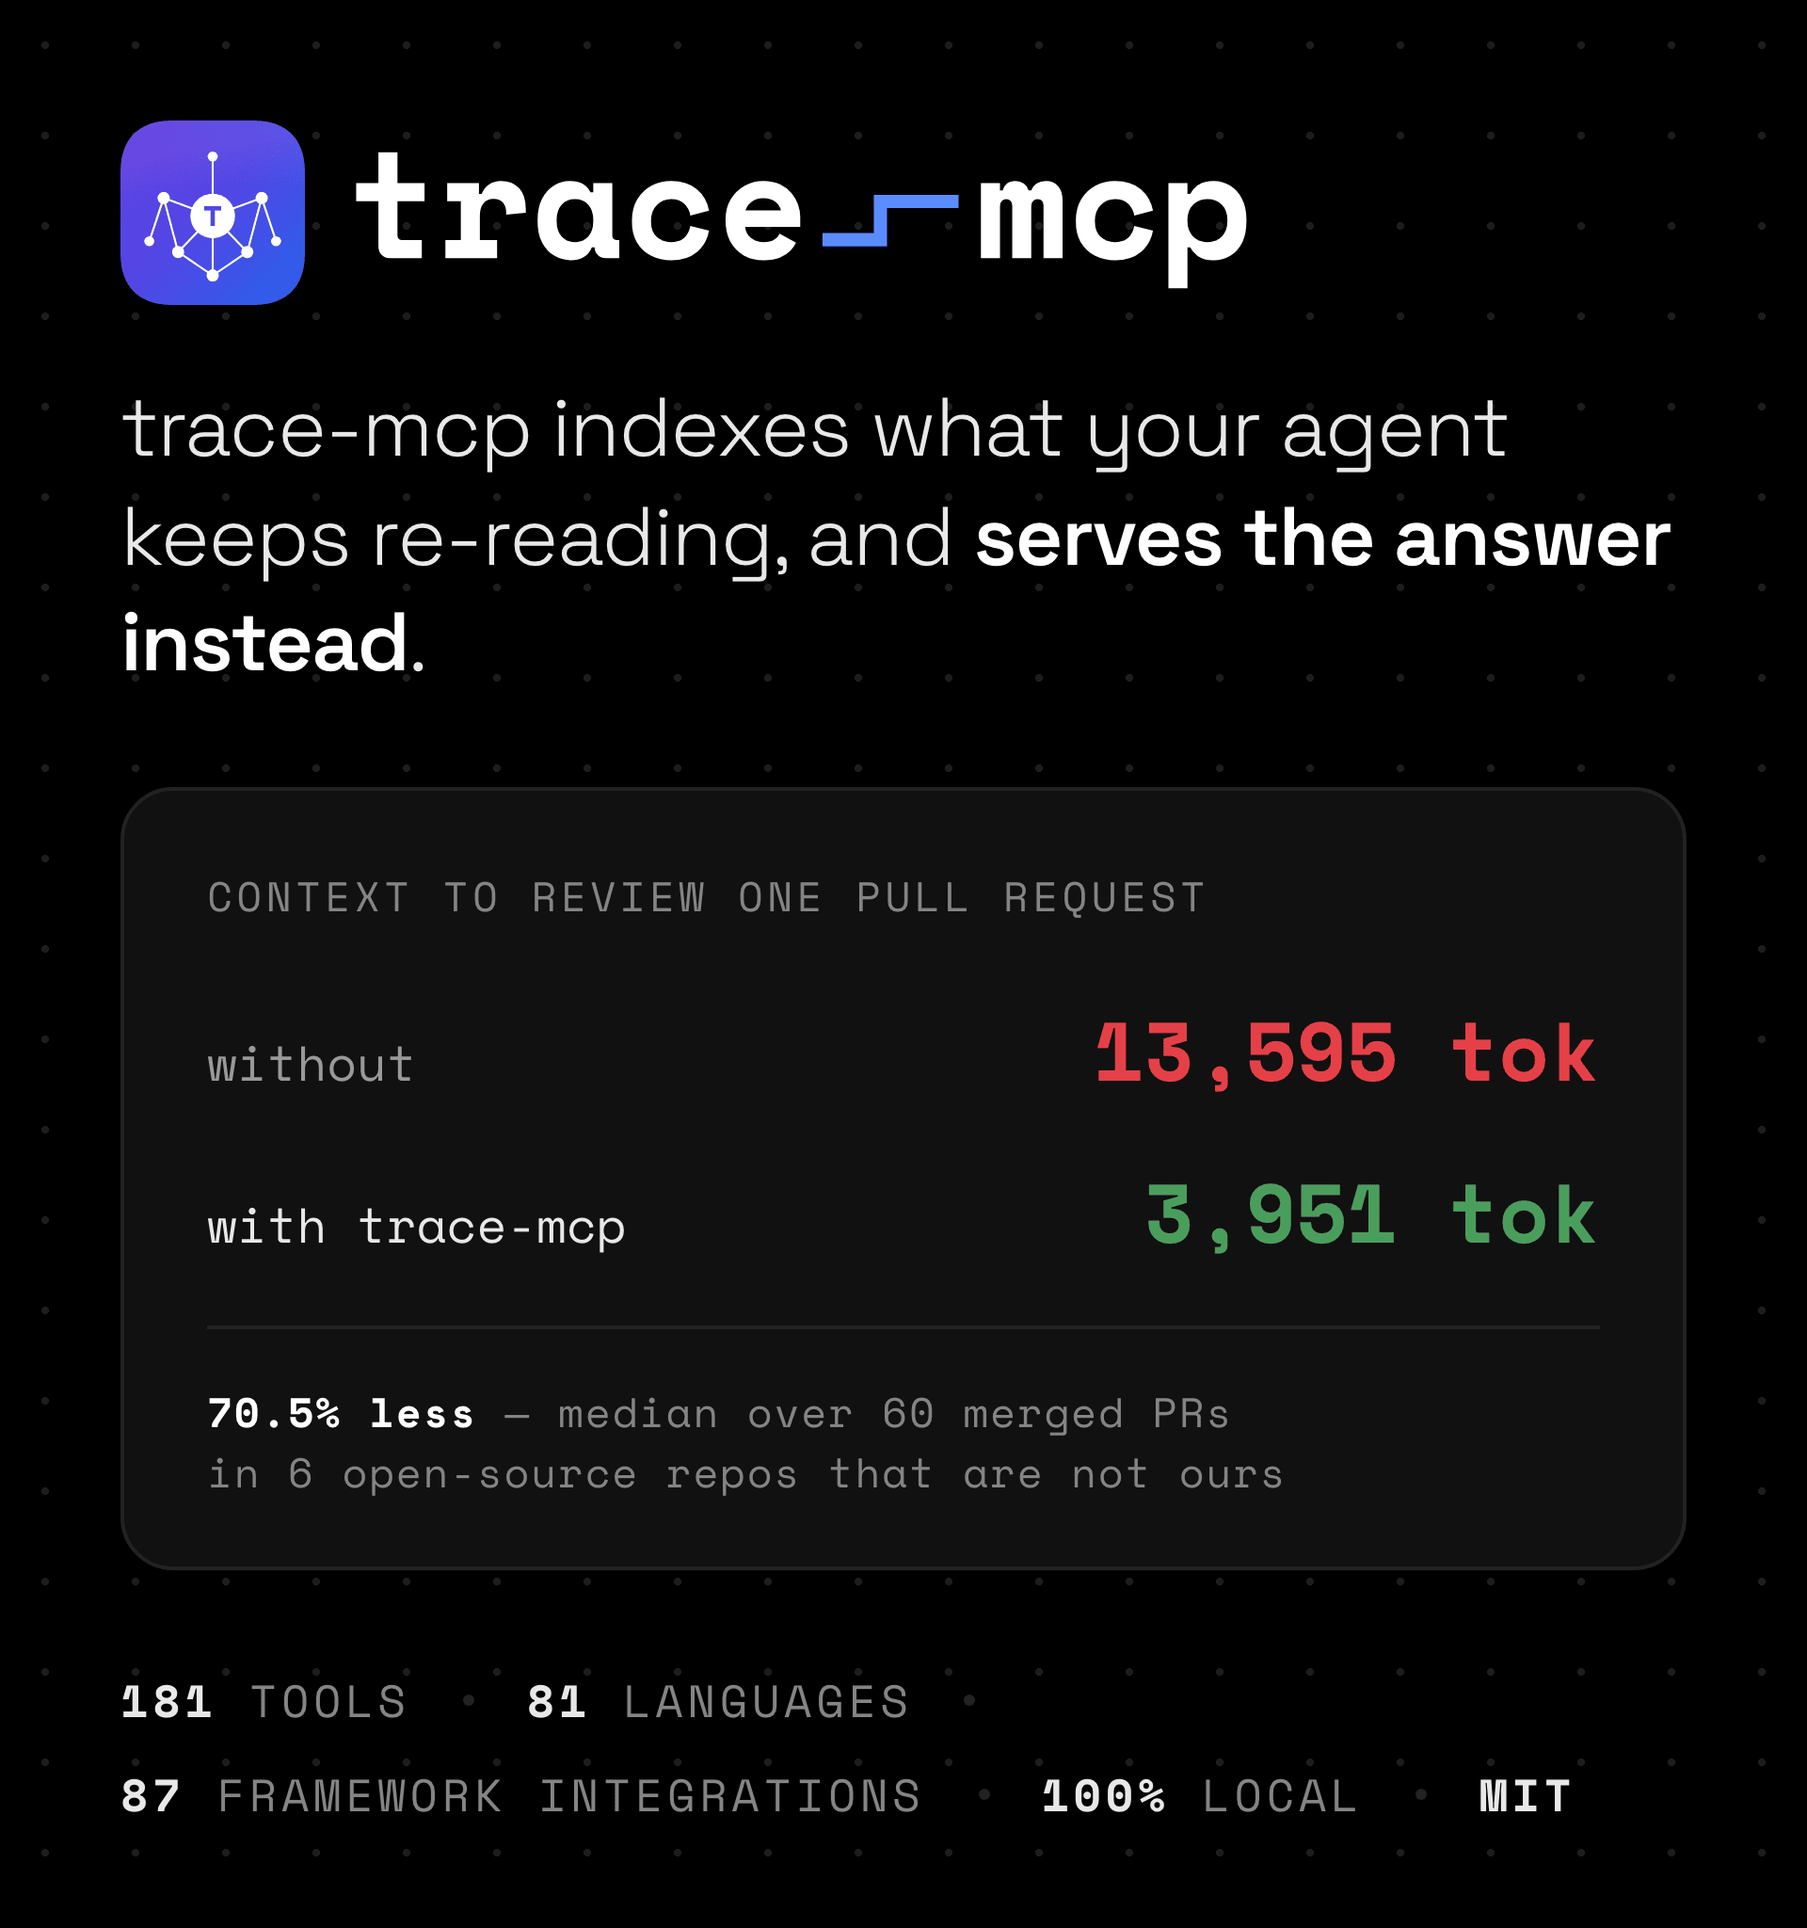
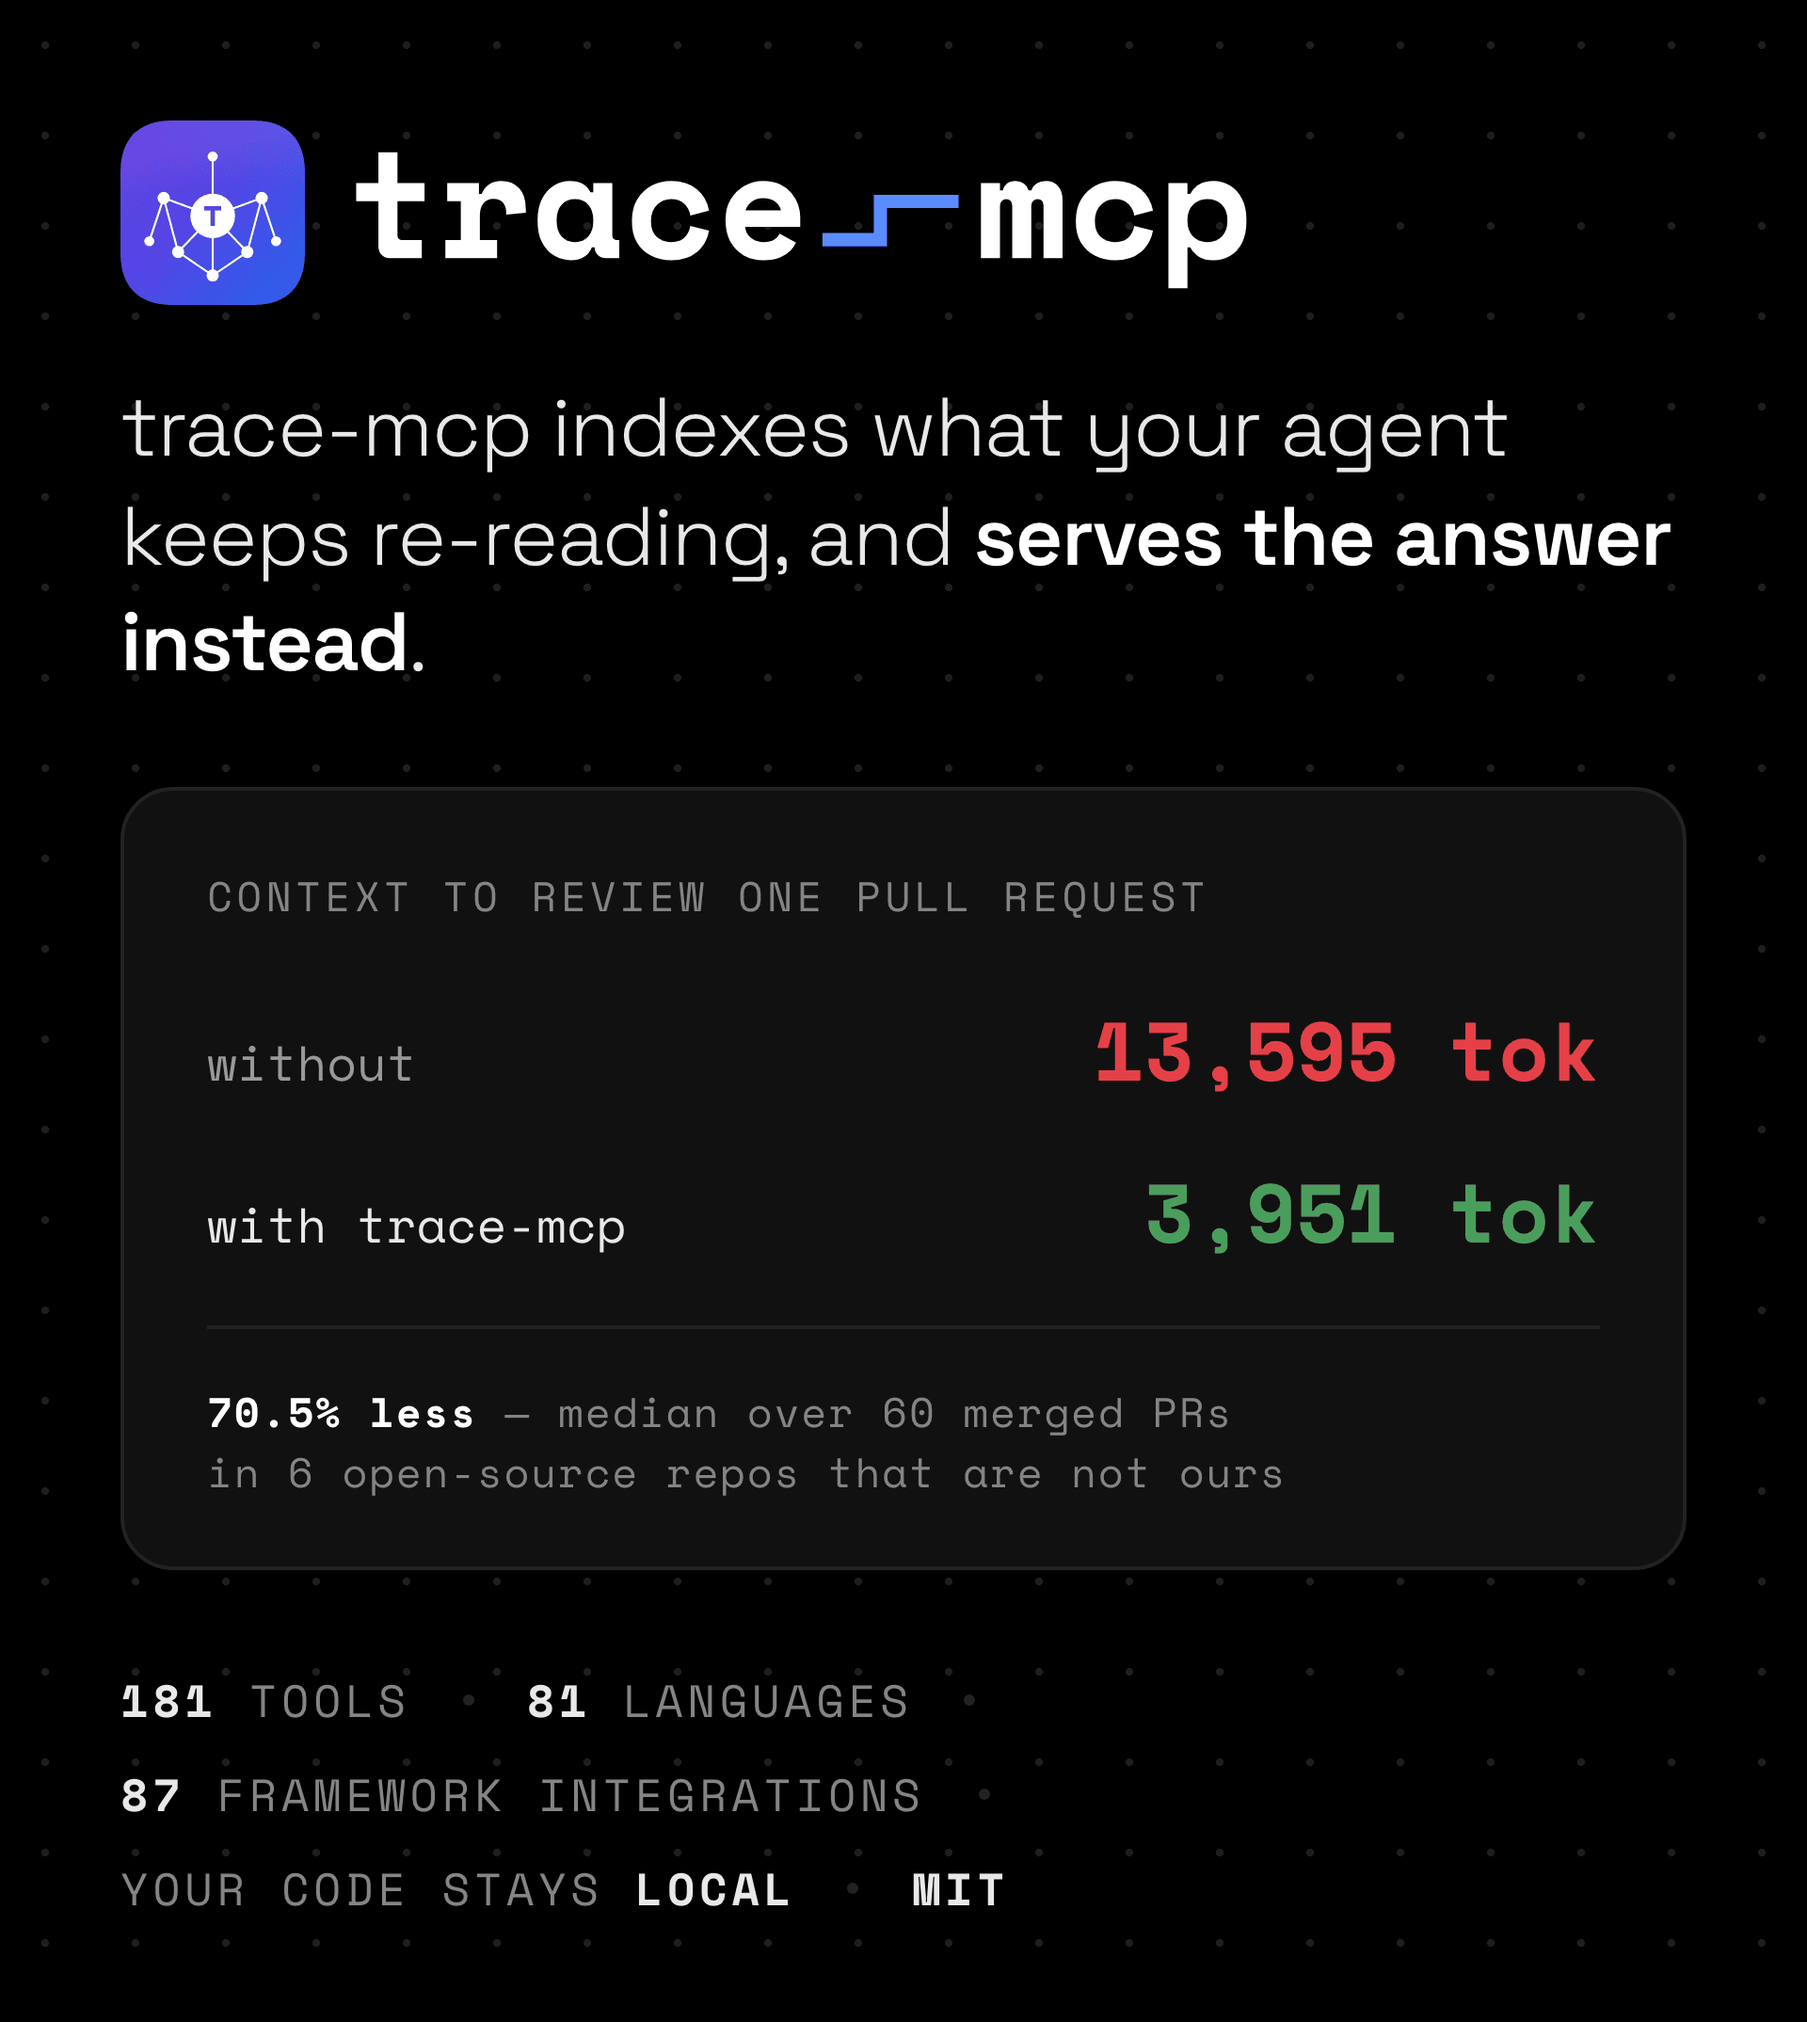
docs: stop claiming 100% local, and never publish the saving without the quality half (TRA-1013)
Two defects on the first screen, both provable from this repo in one command.

1. The README banner chip and its alt text read "100% local" while
   src/telemetry/usage-ping.ts POSTs to google-analytics.com on by default.
   The ping carries no code, no paths and no IP, and docs/privacy.md lists
   every field — none of which rescues an absolute. Now "your code stays
   local"; generator, alt text and the four banner PNGs move together.

2. README published "70.5% fewer input tokens" with no quality figure
   anywhere, though the same 60 PRs were scored blind and the result has
   sat in docs/_data/pr_context_quality.json since this morning (67% vs
   65% understood, 0.80 vs 0.58 false positives per PR). package.json
   quotes the saving in a description too short for a table, so it carries
   the verdict instead — the phrase the live GitHub repo description
   already runs.

Both are gated in tests/docs/readme-claims.test.ts, and the rules are
written down in ops/positioning.md next to the claim they constrain.

docs/index.html (hero) and docs/comparisons.md also quote the saving alone;
those pages belong to the site and competitor mandates and are filed
separately rather than edited here.

Agent: Lead Engineer

diff --git a/tests/docs/readme-claims.test.ts b/tests/docs/readme-claims.test.ts
@@ -623,6 +623,87 @@ describe('docs site numeric claims (TRA-174)', () => {
     expect([...new Set(broken)], 'no matching key in docs/_data/pr_context_bench.json').toEqual([]);
   });
 
+  /**
+   * TRA-1013 / roadmap 2026-09-07: the token saving may not be published alone.
+   * The same 60 PRs were also reviewed by a model and scored blind, and the
+   * quality half is the half that decides whether the cheap context was worth
+   * having. When only the saving travelled, one number was doing the work of a
+   * claim it does not support — the exact defect we documented in a competitor
+   * and then shipped ourselves. So: a surface that quotes the saving quotes the
+   * quality result too, and both come from the generated data.
+   *
+   * README.md is the surface this gates today. docs/index.html (the hero) and
+   * docs/comparisons.md quote the saving without the quality half as well, but
+   * they belong to the site and competitor mandates — filed separately; add
+   * their paths to QUOTES_THE_SAVING once they carry it.
+   */
+  const QUALITY = JSON.parse(
+    readFileSync(join(REPO_ROOT, 'docs/_data/pr_context_quality.json'), 'utf-8'),
+  ) as Record<string, unknown>;
+  const QUOTES_THE_SAVING = ['README.md'];
+
+  /** One-line surfaces cannot carry four numbers, so they carry the verdict
+   *  instead — the same phrase the live GitHub repo description already runs. */
+  const ONE_LINERS_QUOTING_THE_SAVING = ['package.json'];
+
+  it('no surface publishes the token saving without the quality result (TRA-1013)', () => {
+    for (const path of QUOTES_THE_SAVING) {
+      const src = readFileSync(join(REPO_ROOT, path), 'utf-8');
+      for (const [label, needle] of [
+        ['trace understood rate', QUALITY.trace_understood],
+        ['baseline understood rate', QUALITY.baseline_understood],
+        ['trace false positives', QUALITY.trace_false_positives],
+        ['baseline false positives', QUALITY.baseline_false_positives],
+      ] as const) {
+        expect(
+          src.includes(String(needle)),
+          `${path} states the ${BENCH.median_savings_pct}% token saving but not the ${label} ` +
+            `("${needle}") from docs/_data/pr_context_quality.json. Cheaper is not better: the ` +
+            'quality half travels with the saving. Re-run `npx tsx scripts/bench-pr-quality.ts` ' +
+            'and update the block under the benchmark headline.',
+        ).toBe(true);
+      }
+    }
+  });
+
+  it('a one-line surface quoting the saving states the quality verdict (TRA-1013)', () => {
+    for (const path of ONE_LINERS_QUOTING_THE_SAVING) {
+      const src = readFileSync(join(REPO_ROOT, path), 'utf-8');
+      expect(
+        /comprehension at parity/.test(src),
+        `${path} quotes the ${BENCH.median_savings_pct}% saving in a description too short for ` +
+          'the quality table, so it owes the reader the verdict: "comprehension at parity" ' +
+          '(docs/perf/prereg-pr-quality.md, verdict MET). Keep it in step with the GitHub repo ' +
+          'description in ops/distribution.md.',
+      ).toBe(true);
+    }
+  });
+
+  /**
+   * TRA-1013: the banner chip read "100% local" while src/telemetry/usage-ping.ts
+   * POSTs to google-analytics.com by default. The ping carries no code and both
+   * opt-outs are documented — what was false was the absolute. `grep
+   * google-analytics` over our own repo disproved it in one command, on the
+   * surface that is copied verbatim into every auto-indexed listing.
+   */
+  it('no surface we own claims absolute locality while the usage ping ships on (TRA-1013)', () => {
+    const absolute = /(100\s*%[\s-]*local|fully local|entirely local|never leaves your machine)/i;
+    for (const path of [
+      'README.md',
+      'package.json',
+      'server.json',
+      'scripts/gen-readme-banner.mjs',
+    ]) {
+      const hit = readFileSync(join(REPO_ROOT, path), 'utf-8').match(absolute);
+      expect(
+        hit?.[0] ?? null,
+        `${path} claims "${hit?.[0]}". trace-mcp sends one anonymous usage ping by default ` +
+          '(src/telemetry/usage-ping.ts), so an absolute is false. Say what is true instead — ' +
+          'your code and index stay on the machine — and link https://trace-mcp.com/privacy.html.',
+      ).toBe(null);
+    }
+  });
+
   it('llms.txt and tools-reference.md agree on the resource count', () => {
     const llms = readDoc('docs/llms.txt');
     const toolsRef = readDoc('docs/tools-reference.md');

diff --git a/ops/docs-audit.md b/ops/docs-audit.md
@@ -27,6 +27,7 @@ Claims that a test already guards need no re-audit; the guard is the record:
 
 | Date | Scope | Verified against | Outcome |
 | --- | --- | --- | --- |
+| 2026-09-07 | every claim about *where the product runs*, and every surface quoting the PR-benchmark saving | `src/telemetry/usage-ping.ts`, `docs/privacy.md`, `docs/_data/pr_context_bench.json`, `docs/_data/pr_context_quality.json` | Two defects, both on the first screen. (1) The banner chip and its `alt` text read **100% local** while the usage ping POSTs to `google-analytics.com` on by default — `grep google-analytics` over our own repo disproves it in one command, on the string auto-indexes copy verbatim. Now "your code stays local"; the generator, the `alt` and the four banner PNGs move together. (2) `README.md` published **70.5% fewer input tokens** with no quality figure anywhere on the page, though the same 60 PRs were scored blind and the data has sat in `docs/_data/pr_context_quality.json` since 2026-09-07 (67% vs 65% understood, 0.80 vs 0.58 false positives). Both are now gated in `tests/docs/readme-claims.test.ts`. **Not fixed here, filed instead:** `docs/index.html` (hero) and `docs/comparisons.md` quote the saving without the quality half — those pages belong to the site and competitor mandates. |
 | 2026-09-06 | every backticked repository path in `README.md` and `docs/**` | the filesystem, via `extractDocRefs` (`verify_docs`) | 59 paths did not exist. Ten were real drift and are fixed here: `src/indexer/extract-worker.js` (it is `.ts`), `benchmarks/pr-context-benchmark` (it is `benchmarks/pr-context`), `src/indexer/plugins/integration/framework/index.ts` (no such file — plugins register in `src/indexer/plugins/integration/all.ts`), and seven `packages/app/` paths written as if repo-root in `docs/perf/README.md` and `docs/development.md`. The rest are other projects' trees quoted in `docs/comparisons.md`, generated or gitignored files, files correctly named as deleted, and add-a-plugin placeholders — all enumerated with a reason in `tests/docs/doc-path-refs.test.ts`, which now gates this. |
 | 2026-08-30 | `docs/tools-reference.md` — completeness of the tool listing | every `server.tool(...)` registration under `src/tools/register`, captured live via `_capture-tools.ts` | 101 of the 151 tools a default install registers were listed nowhere. Fixed by generating `docs/tools-index.md` (#642) and dropping the page's "full reference" claim. |
 | 2026-08-30 | tool names quoted anywhere in `docs/tools-reference.md` | the same registration scan, plus `src/tools/ai/ai-tools.ts` | No ghosts. The five AI-backed tools live outside `src/tools/register`, which is why they are absent from `counts.yml` — that is correct, not drift. |

diff --git a/README.md b/README.md
@@ -16,7 +16,7 @@
     <source media="(max-width: 500px) and (prefers-color-scheme:light)" srcset="docs/images/readme/banner-narrow-light.png" />
     <source media="(max-width: 500px)" srcset="docs/images/readme/banner-narrow-dark.png" />
     <source media="(prefers-color-scheme: light)" srcset="docs/images/readme/banner-light.png" />
-    <img src="docs/images/readme/banner-dark.png" width="750" alt="trace-mcp indexes what your agent keeps re-reading, and serves the answer instead. Context to review one pull request: 13,595 tokens without trace-mcp, 3,951 with it — 70.5% less, median over 60 merged PRs in 6 open-source repos that are not ours. 181 tools, 81 languages, 87 framework integrations, 100% local, MIT." />
+    <img src="docs/images/readme/banner-dark.png" width="750" alt="trace-mcp indexes what your agent keeps re-reading, and serves the answer instead. Context to review one pull request: 13,595 tokens without trace-mcp, 3,951 with it — 70.5% less, median over 60 merged PRs in 6 open-source repos that are not ours. 181 tools, 81 languages, 87 framework integrations, your code stays local, MIT." />
   </picture>
 </p>
 
@@ -69,6 +69,8 @@ trace add                  # index the repo you are in
 **70.5% fewer input tokens** to review a pull request — median over 60 merged PRs in six repos that are not ours, 13,595 → 3,951 per pull request. [Method and reproduction →](https://trace-mcp.com/pr-context-benchmark.html)
 
 <sub>Measured at trace-mcp 3.22.0 (`3edecbfb`) on 7 September 2026 — a result from that build, not a claim about the current one. What it set out to measure, the bar it had to clear and the verdict: [preregistration](https://trace-mcp.com/perf/prereg-pr-context/).</sub>
+
+Cheaper is not the same as better, so the same 60 pull requests were reviewed twice and scored blind. The trace-mcp arm **understood the change in 67%** of them against **65%** for naive file loading, at **0.80** false positives per PR against **0.58**. [Quality half of the benchmark →](https://trace-mcp.com/perf/prereg-pr-quality/)
 
 <p align="center">
   <img src="docs/images/app-graph.webp" alt="trace-mcp app — GPU graph explorer visualizing symbol connections, light appearance" width="820" height="512" loading="lazy" />

diff --git a/ops/positioning.md b/ops/positioning.md
@@ -23,6 +23,12 @@ Rules for keeping it honest, same three as the sibling ledgers:
   with no reason written down gets re-adopted next quarter.
 - Numbers going outside come from `docs/_data/counts.yml` and
   `docs/_data/pr_context_bench.json`. Never hand-typed.
+- **The saving never travels alone.** A surface quoting the token figure quotes
+  the quality result from `docs/_data/pr_context_quality.json` in the same
+  breath. Cheaper is not better, and one number stating a claim it does not
+  support is the defect we documented in a competitor before we shipped it
+  ourselves. Gated for `README.md` by `tests/docs/readme-claims.test.ts`
+  (TRA-1013).
 
 ## The question this answers
 
@@ -149,6 +155,18 @@ too. If the distinction ever stops being drawn, the honest move is to drop the
 pairing from the public surfaces, not to soften the boundary: the boundary is
 load-bearing for the whole claim and `tweakcc` is an optional amplifier on one
 client.
+
+**The second boundary: no absolute about locality.** Say what is true — your
+code and your index stay on the machine, there is no account and no server of
+ours in the path — and stop there. "100% local" is false the moment you `grep
+google-analytics` over our own repo: `src/telemetry/usage-ping.ts` POSTs one
+anonymous daily ping unless the user sets `TRACE_MCP_TELEMETRY=off` or
+`telemetry.usage_ping: false`. The ping carries no code, no paths and no IP, and
+`docs/privacy.md` lists every field it does carry — none of which rescues an
+absolute. The banner chip and its `alt` text said it until 2026-09-07 (TRA-1013),
+on the surface auto-indexes copy verbatim. Gated by
+`tests/docs/readme-claims.test.ts` for `README.md`, `package.json`,
+`server.json` and `scripts/gen-readme-banner.mjs`.
 
 And say the reachable share out loud, because "manages your context budget"
 implies a whole we do not have. The measured decomposition of one real start
